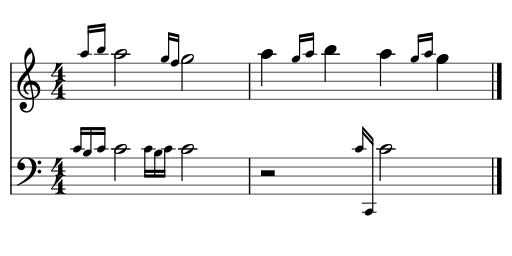
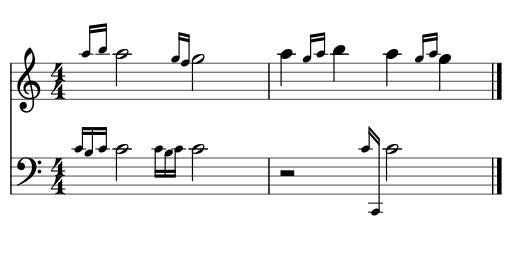
fix 48101: grace notes after collide with ledger lines
Former-commit-id: 1056cf6dc2ab4a027a14fb1e23c5de618caf29c1

diff --git a/libmscore/chord.cpp b/libmscore/chord.cpp
@@ -1948,8 +1948,10 @@ void Chord::layoutPitched()
                   if (!pc) {
                         // no previous grace note found
                         if (!before){
-                              // grace note after - use main note
-                              pc = mainChord;
+                              // grace note after - we would use main note
+                              // but it hasn't been laid out yet, so we can't be sure about its ledger lines
+                              // err on the side of safety
+                              lll = qMax(lll, ledgerLineLength + lhead + 0.2 * _spatium * mag());
                               }
                         else if (mainChord->rtick()) {
                               // grace note before - use previous normal note of measure
@@ -1972,7 +1974,7 @@ void Chord::layoutPitched()
                         // both chords have ledger lines above or below staff
                         llsp = ledgerLineLength;
                         // add space between ledger lines
-                        llsp += _spatium * 0.2 * pc->mag();
+                        llsp += 0.2 * _spatium * pc->mag();
                         // if any portion of note extended to left of origin
                         // we need to include that here so it is not subsumed by ledger line
                         llsp += lhead;
@@ -1981,8 +1983,20 @@ void Chord::layoutPitched()
                         // even if no ledger lines in previous chord,
                         // we may need a little space to avoid crossing stem
                         llsp = ledgerLineLength * 0.5;
-                        llsp += _spatium * 0.2 * pc->mag();
+                        llsp += 0.2 * _spatium * pc->mag();
                         llsp += lhead;
+                        }
+                  if (_noteType == NoteType::NORMAL && pc->isGraceAfter()) {
+                        // add appropriate space to right of previous (grace note after) chord
+                        // this will be used in calculating its position relative to this chord
+                        // it is too late to actually allocate space for this in segment of previous chord
+                        // so we will allocate room in left space of this chord
+                        qreal oldR = pc->space().rw();
+                        qreal stemX = pc->stemPosX();
+                        qreal available = oldR - stemX;
+                        qreal newR = stemX + qMax(available, llsp);
+                        if (newR > oldR)
+                              pc->_space.rRw() = newR;
                         }
                   lll = qMax(llsp, lll);
                   }
